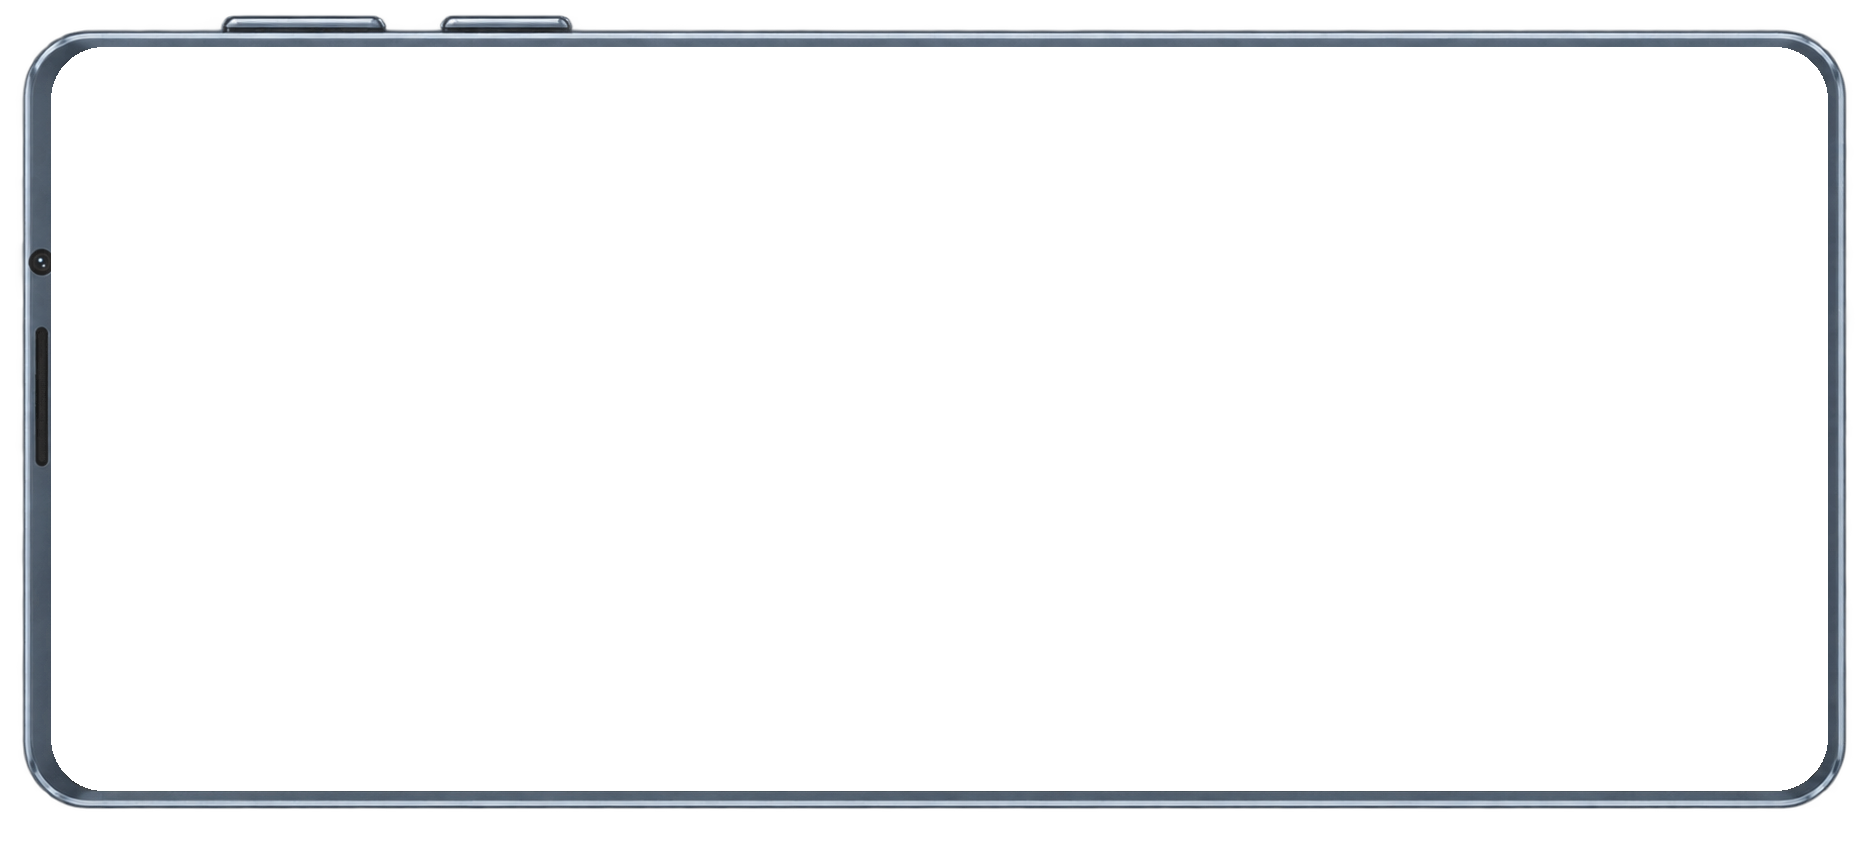
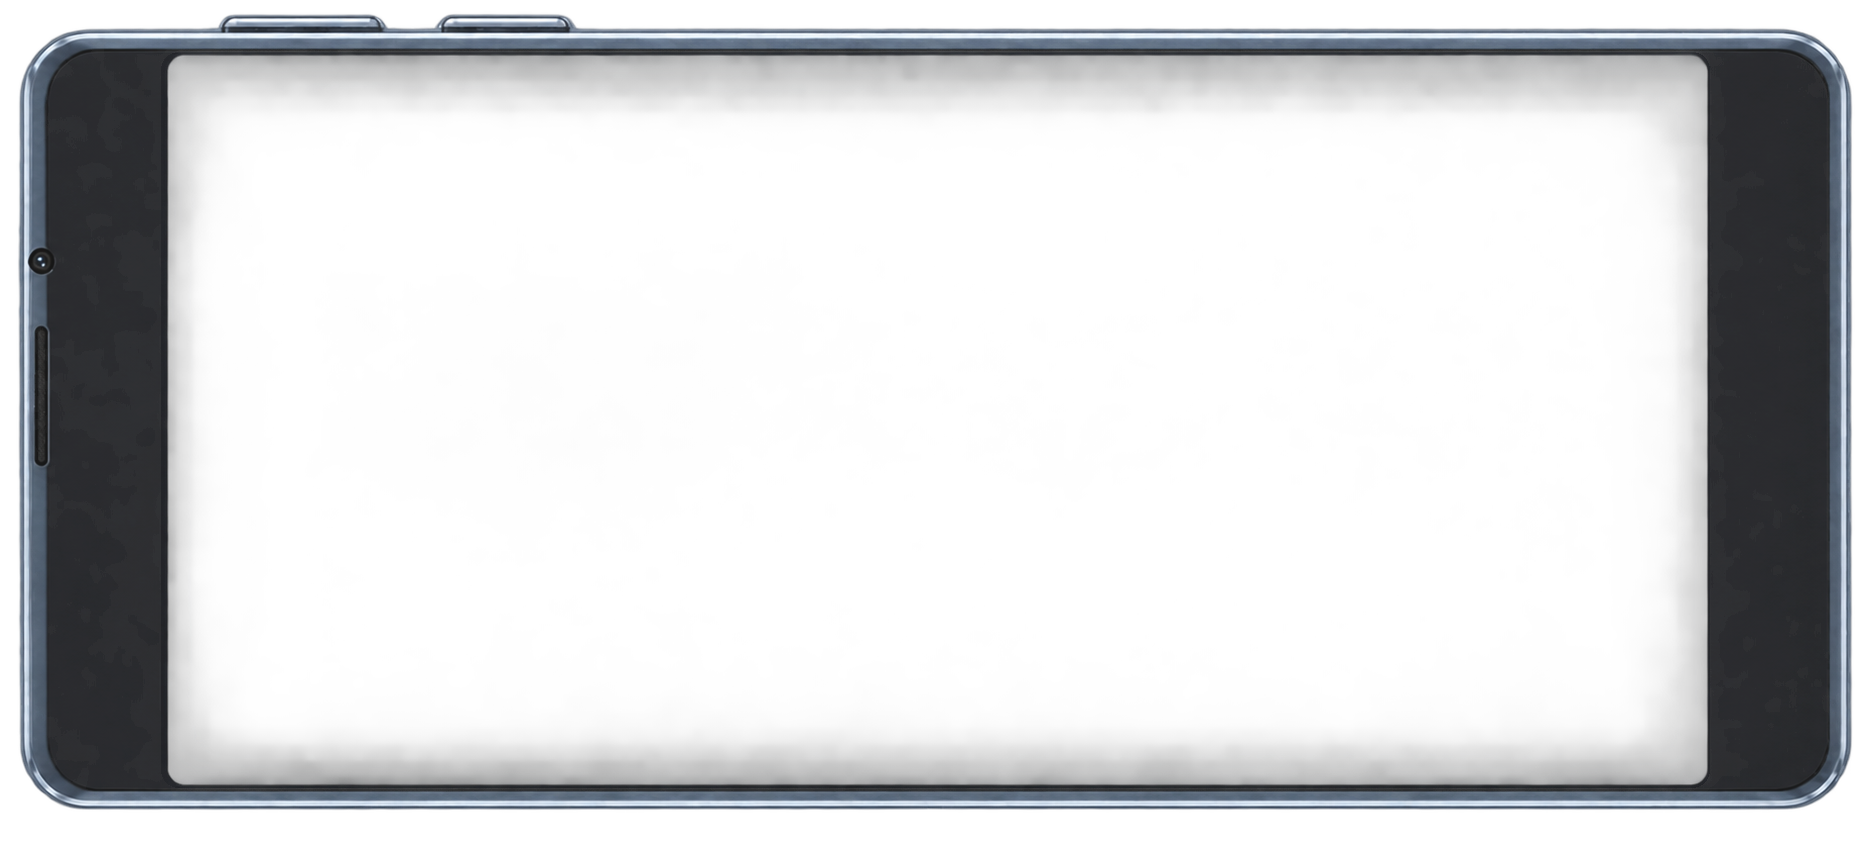
Finished the Ariana interactive. In the process, also created reusable css/javascript for creating consistent option labels and magnitude bars throughout the textbook.

Changed region(s): [[0.0, 0.0, 0.9925, 0.9893]]

diff --git a/assets/code/ariana.js b/assets/code/ariana.js
@@ -15,28 +15,23 @@ let zoom = Number(zoomInput.value);
 let pan = Number(panInput.value);
 
 // Image dimensions at 1× zoom
-const baseWidth = 51.06;
-const baseHeight = 15.6;
+const baseWidth = 53.14;
+const baseHeight = 17.38;
 
 // Center of the phone screen
 const centerX = 10;
 const centerY = 4.5;
 
 // Horizontal movement per unit of pan
-const panScale = 2.15;
+const panScale = 4.3;
 
 // Photograph of Ariana, sits in the background
-const bgImgURL = new URL('../photos/Ariana-zoomed-out-4.png', document.currentScript.src).href;
+const bgImgURL = new URL('../photos/Ariana-zoomed-out.png', document.currentScript.src).href;
 const photo = photoBoard.create('image', [
     bgImgURL,
     [
         () => centerX - (baseWidth * zoom) / 2 - panScale * pan,
-        () => {
-            const t = Math.max(0, Math.min(1, zoom - 1));
-            const verticalOffset = 1.6 * t * t * (3 - 2 * t);
-
-            return centerY + verticalOffset - (baseHeight * zoom) / 2;
-        }
+        () => centerY - (baseHeight * zoom) / 2
     ],
     [
         () => baseWidth * zoom,
@@ -44,11 +39,12 @@ const photo = photoBoard.create('image', [
     ]
 ], {
     layer: 1,
-    fixed: true
+    fixed: true,
+    highlight: false
 });
 
 // Phone frame that sits atop and masks background
-const fgImgURL = new URL('../photos/Ariana-phone-2.png', document.currentScript.src).href;
+const fgImgURL = new URL('../photos/Ariana-phone.png', document.currentScript.src).href;
 const phone = photoBoard.create('image', [
     fgImgURL,
     [0, 0],
@@ -59,14 +55,35 @@ const phone = photoBoard.create('image', [
     highlight: false
 });
 
-zoomInput.addEventListener('input', function () {
-    zoom = Number(zoomInput.value);
-    photoBoard.update();
+
+// -- Event Listeners --
+function addMagneticSnap(input, target, snapAt, releaseAt, onUpdate) {
+    let snapped = Number(input.value) === target;
+
+    input.addEventListener('input', () => {
+        const value = Number(input.value);
+        const distance = Math.abs(value - target);
+
+        if (distance <= (snapped ? releaseAt : snapAt)) {
+            input.value = target;
+            snapped = true;
+        } else {
+            snapped = false;
+        }
+
+        onUpdate(Number(input.value));
+        photoBoard.update();
+    });
+}
+
+// Zoom snaps to 1×
+addMagneticSnap(zoomInput, 1, 0.04, 0.10, value => {
+    zoom = value;
 });
 
-panInput.addEventListener('input', function () {
-    pan = Number(panInput.value);
-    photoBoard.update();
+// Pan snaps to center
+addMagneticSnap(panInput, 0, 0.04, 0.10, value => {
+    pan = value;
 });
 
 // Connect the sliders
@@ -81,12 +98,126 @@ function updateInteractive() {
 zoomInput.addEventListener('input', updateInteractive);
 panInput.addEventListener('input', updateInteractive);
 
+
 // ---- MAGNITUDE BARS ----
 const barsBoard = JXG.JSXGraph.initBoard(
     'ariana-bars-board', {
-        boundingbox: [0, 5, 10, 0],
+        boundingbox: [0, 5, 20, 0],
         axis: false,
         showNavigation: false,
         showCopyright: false
     }
 );
+
+addOptionBadge(barsBoard, 1, 4, 'A');
+addOptionBadge(barsBoard, 1, 3, 'B');
+addOptionBadge(barsBoard, 1, 2, 'C');
+addOptionBadge(barsBoard, 1, 1, 'D');
+
+const W = 20 * 1550 / 1870; // 16.58
+const F = 2.76;             // estimate of face width at 1x zoom
+const L = () => 6.74        // estimate of L, which is affected by both zooming and panning
+    - 1.55 * (zoom - 1)
+    - 4.3 * pan;
+const barStart = 2;
+
+// create some gray backdrops underneath the magnitude bars
+barsBoard.create('segment', [[barStart, 4], [barStart + W, 4]], {
+        strokeColor: '#e9eaec',
+        strokeWidth: 12,
+        strokeOpacity: 1,
+        lineCap: 'butt',
+        fixed: true,
+        highlight: false,
+        layer: 5
+})
+
+barsBoard.create('segment', [[barStart, 3], [barStart + W, 3]], {
+        strokeColor: '#e9eaec',
+        strokeWidth: 12,
+        strokeOpacity: 1,
+        lineCap: 'butt',
+        fixed: true,
+        highlight: false,
+        layer: 5
+})
+
+barsBoard.create('segment', [[barStart, 2], [barStart + W, 2]], {
+        strokeColor: '#e9eaec',
+        strokeWidth: 12,
+        strokeOpacity: 1,
+        lineCap: 'butt',
+        fixed: true,
+        highlight: false,
+        layer: 5
+})
+
+barsBoard.create('segment', [[barStart, 1], [barStart + W, 1]], {
+        strokeColor: '#e9eaec',
+        strokeWidth: 12,
+        strokeOpacity: 1,
+        lineCap: 'butt',
+        fixed: true,
+        highlight: false,
+        layer: 5
+})
+
+// A = zF
+addMagnitudeBar(barsBoard,
+    [barStart, 4],
+    [() => barStart + zoom * F, 4]
+);
+
+// B = W
+addMagnitudeBar(barsBoard,
+    [barStart, 3],
+    [barStart + W, 3]
+);
+
+// C = L + zF
+addMagnitudeBar(barsBoard,
+    [barStart, 2],
+    [() => barStart + L() + zoom * F, 2]
+);
+
+// D = W - zF
+addMagnitudeBar(barsBoard,
+    [barStart, 1],
+    [() => barStart + W - zoom * F, 1]
+);
+
+
+// Adding vertical bars around Ariana's face to indicate precisely the width
+
+const screenLeft = (20 - W) / 2;
+
+const faceLeft = () => screenLeft + L();
+const faceRight = () => faceLeft() + zoom * F;
+
+const guideStyle = {
+    strokeColor: '#FFFFFF',
+    strokeWidth: 2.5,
+    dash: 3,
+    fixed: true,
+    highlight: false,
+    layer: 9,
+    shadow: {
+        enabled: true,
+        color: [0, 0, 0],
+        opacity: 0.45,
+        blur: 2,
+        offset: [1, 1]
+    }
+};
+
+// Left edge of face
+photoBoard.create('segment', [
+    [faceLeft, 1],
+    [faceLeft, 8]
+], guideStyle);
+
+// Right edge of face
+photoBoard.create('segment', [
+    [faceRight, 1],
+    [faceRight, 8]
+], guideStyle);

diff --git a/assets/code/magnitude-bars.js b/assets/code/magnitude-bars.js
@@ -1,0 +1,36 @@
+
+const magnitudeBarColors = [ // A list of default colors
+    '#65BCE7', // Sky blue
+    '#E87787', // Coral pink
+    '#228833', // Green
+    '#DCBA53', // Golden yellow
+    '#7654C5'  // Lavender
+];
+
+// Keep track of how many bars each board has created.
+const magnitudeBarCounts = new WeakMap();
+
+function addMagnitudeBar(board, start, end, options = {}) {
+    const { directional = false, ...styleOverrides } = options;
+
+    // Find the next color for this board.
+    const count = magnitudeBarCounts.get(board) ?? 0;
+    const color = magnitudeBarColors[count % magnitudeBarColors.length];
+
+    // Advance to the next color.
+    magnitudeBarCounts.set(board, count + 1);
+
+    return board.create('segment', [start, end], {
+        strokeColor: color,
+        strokeWidth: 12,
+        strokeOpacity: 0.6,
+        lineCap: 'butt',
+        fixed: true,
+        highlight: false,
+        layer: 8,
+        ...(directional ? {
+            lastArrow: { type: 1, size: 2 }
+        } : {}),
+        ...styleOverrides
+    });
+}

diff --git a/assets/css/option-badges.css b/assets/css/option-badges.css
@@ -1,0 +1,15 @@
+.option-badge {
+    display: flex;
+    align-items: center;
+    justify-content: center;
+    width: 25px;
+    height: 25px;
+    background-color: #F0F0F0;
+    border: 1px solid #C9CDD1;
+    border-radius: 6px;
+    box-sizing: border-box;
+    color: #252525;
+    font-family: Arial, sans-serif;
+    font-size: 16px;
+    font-weight: 600;
+}

diff --git a/assets/css/ariana.css b/assets/css/ariana.css
@@ -82,7 +82,7 @@
 }
 
 #ariana-photo-board {
-    background-color: #f5f5f5;
+    background-color: #ffffff;
     border: none;
     border-radius: 2px;
     overflow: hidden;
@@ -90,7 +90,7 @@
 }
 
 #ariana-bars-board {
-    background-color: #f5f5f5;
+    background-color: #ffffff;
     border: none;
     border-radius: 2px;
     overflow: hidden;

diff --git a/assets/code/option-badges.js b/assets/code/option-badges.js
@@ -1,0 +1,10 @@
+function addOptionBadge(board, x, y, letter) {
+    return board.create('text', [x, y, letter], {
+        display: 'html',
+        cssClass: 'option-badge',
+        anchorX: 'middle',
+        anchorY: 'middle',
+        fixed: true,
+        highlight: false
+    });
+}
